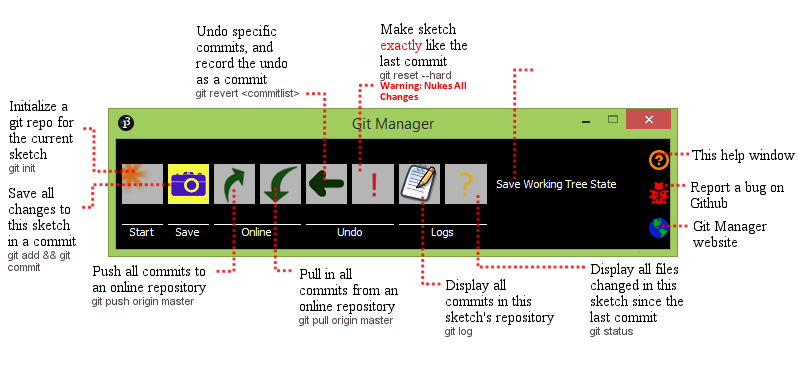
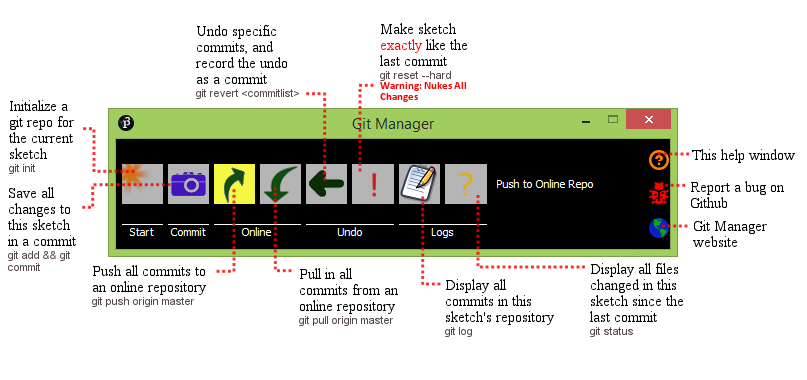
Update build.properties, rename 'Save' to 'Commit'

diff --git a/src/git_manager/tool/GitOptionToolbar.java b/src/git_manager/tool/GitOptionToolbar.java
@@ -204,7 +204,7 @@ public class GitOptionToolbar extends JPanel implements MouseInputListener,
 		this.buttonToolbar.add(Box.createHorizontalStrut(space1));
 		this.buttonToolbar.add(addButton(OptionBar.GIT_INIT_ICON, OptionBar.ACTION_INIT,
 				OptionBar.DESCRIP_INIT, OptionBar.GIT_INIT_SELECTED_ICON,
-				OptionBar.GIT_INIT_DISABLED_ICON));
+				OptionBar.GIT_INIT_ICON));
 		this.buttonToolbar.add(Box.createHorizontalStrut(space1));
 		this.buttonToolbar.add(addButton(OptionBar.GIT_SNAP_ICON, OptionBar.ACTION_SNAP,
 				OptionBar.DESCRIP_SNAP, OptionBar.GIT_SNAP_SELECTED_ICON,
@@ -245,12 +245,13 @@ public class GitOptionToolbar extends JPanel implements MouseInputListener,
     this.buttonToolbar.add(Box.createHorizontalGlue());
 	}
   
+	// TODO: Add all this in into OptionBar class 
   private void populateDescribeBar() {
 
      this.descriptionToolbar.add(Box.createHorizontalStrut(space1));
      this.descriptionToolbar.add(addLabel("Start", 41, 0));
      this.descriptionToolbar.add(Box.createHorizontalStrut(space1));
-     this.descriptionToolbar.add(addLabel("Save", 41, 0));
+     this.descriptionToolbar.add(addLabel("Commit", 41, 0));
      this.descriptionToolbar.add(Box.createHorizontalStrut(space1));
      // TODO: Uncomment this to add in a git diff
 //     this.add(addButton(OptionBar.GIT_DIFF_ICON, OptionBar.ACTION_DIFF,

diff --git a/src/git_manager/constants/ProjectDetails.java b/src/git_manager/constants/ProjectDetails.java
@@ -24,7 +24,7 @@ package git_manager.constants;
 
 public class ProjectDetails {
 	public static final String NAME = "Git Manager";
-	public static final String VERSION = "0.2.0";
+	public static final String VERSION = "0.2.1";
 	public static final String WEBSITE = "http://joelmoniz.com/git-manager/";
 	public static final String AUTHOR = "Joel Moniz";
 }
